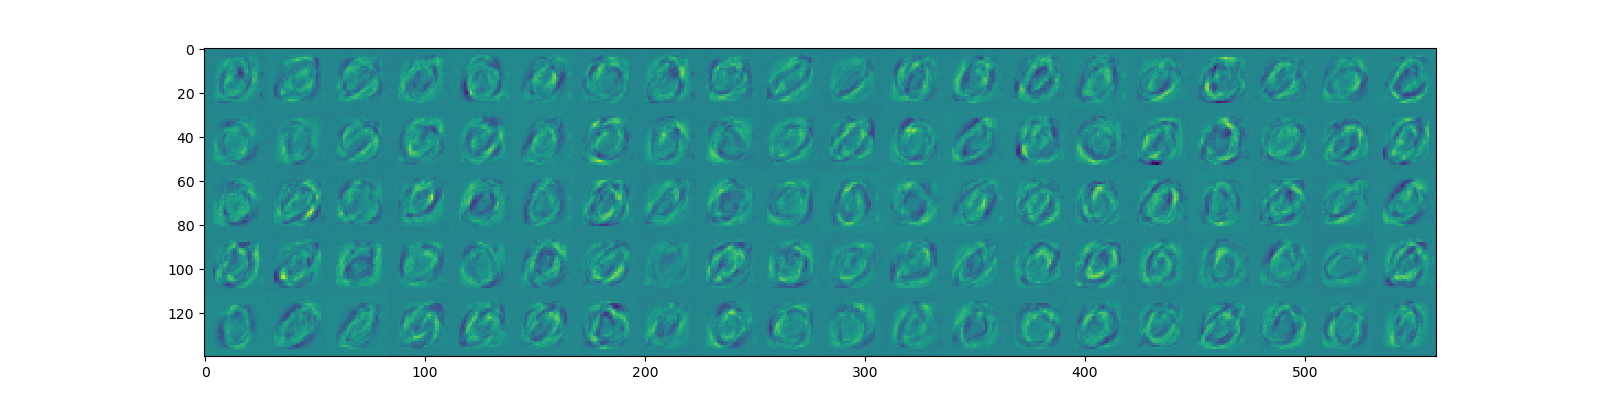
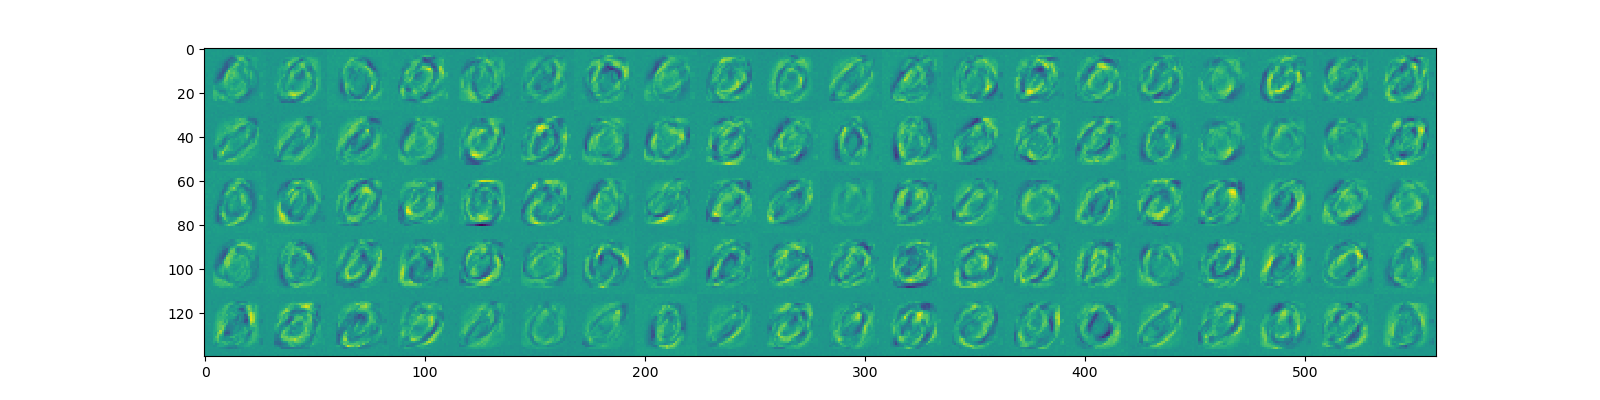
add LLE

Changed region(s): [[0.125, 0.12, 0.9062, 0.9]]

diff --git a/unsupervised/LLE/swiss_roll.py b/unsupervised/LLE/swiss_roll.py
@@ -1,0 +1,51 @@
+import numpy as np
+import matplotlib
+from matplotlib import pyplot as plt
+from mpl_toolkits.mplot3d.axes3d import Axes3D
+import sklearn
+import sklearn.datasets
+
+
+def LLE(X, k):
+    N = len(X)
+    W = np.zeros([N, N])
+
+    for i in range(N):
+        d = len(X[i])
+        # find the k nearest neighbours of the ith point
+        distances = np.linalg.norm(X-X[i].reshape(1, -1), axis=1)
+        NN = np.argsort(distances)[1:k+1]
+        # compute the weight vector w
+        C = np.dot(X[i]-X[NN], (X[i]-X[NN]).T)
+        if k > d:
+            C += 1e-3*np.trace(C)*np.eye(k)
+        C_inv = np.linalg.inv(C)
+        w = np.sum(C_inv, axis=1)/np.sum(C_inv)
+        W[i, NN] = w
+
+    M = np.identity(N) - W - W.T + np.dot(W.T, W)
+    E = np.linalg.svd(M)[0][:, -3:-1]
+
+    return E
+
+
+if __name__ == "__main__":
+
+    X, T = sklearn.datasets.make_swiss_roll(n_samples=1000, noise=0.25)
+    plt.figure(figsize=(5, 5))
+    ax = plt.gca(projection='3d')
+    ax.view_init(elev=10., azim=105)
+    ax.scatter(X[:, 0], X[:, 1], X[:, 2], c=T)
+    plt.savefig('./figs/swiss_roll.png')
+
+    f = plt.figure(figsize=(12, 3))
+    for t, (k, noise) in enumerate([(2, 0.1), (10, 0.1), (25, 0.1), (10, 1)]):
+        X, T = sklearn.datasets.make_swiss_roll(n_samples=1000, noise=noise)
+
+        embedding = LLE(X, k=k)
+        ax = f.add_subplot(1, 4, t+1)
+        ax.set_title('k=%d, noise=%.1f' % (k, noise))
+        ax.set_xticks([])
+        ax.set_yticks([])
+        ax.scatter(embedding[:, 0], embedding[:, 1], c=T)
+    plt.savefig('./figs/embeddings.png')

diff --git a/self-supervised/KDE_RBM_Anomaly_Detection/rbm.py b/self-supervised/KDE_RBM_Anomaly_Detection/rbm.py
@@ -59,8 +59,8 @@ if __name__ == '__main__':
     plt.figure(figsize=(16, 4))
     plt.imshow(Xr.reshape(5, 20, 28, 28).transpose(
         0, 2, 1, 3).reshape(140, 560))
-    plt.show()
+    plt.savefig('./data/100_train_0.png')
     plt.figure(figsize=(16, 4))
     plt.imshow(rbm.W.T.reshape(5, 20, 28, 28).transpose(
         0, 2, 1, 3).reshape(140, 560))
-    plt.show()
+    plt.savefig('./data/rbm_learned_params.png')
